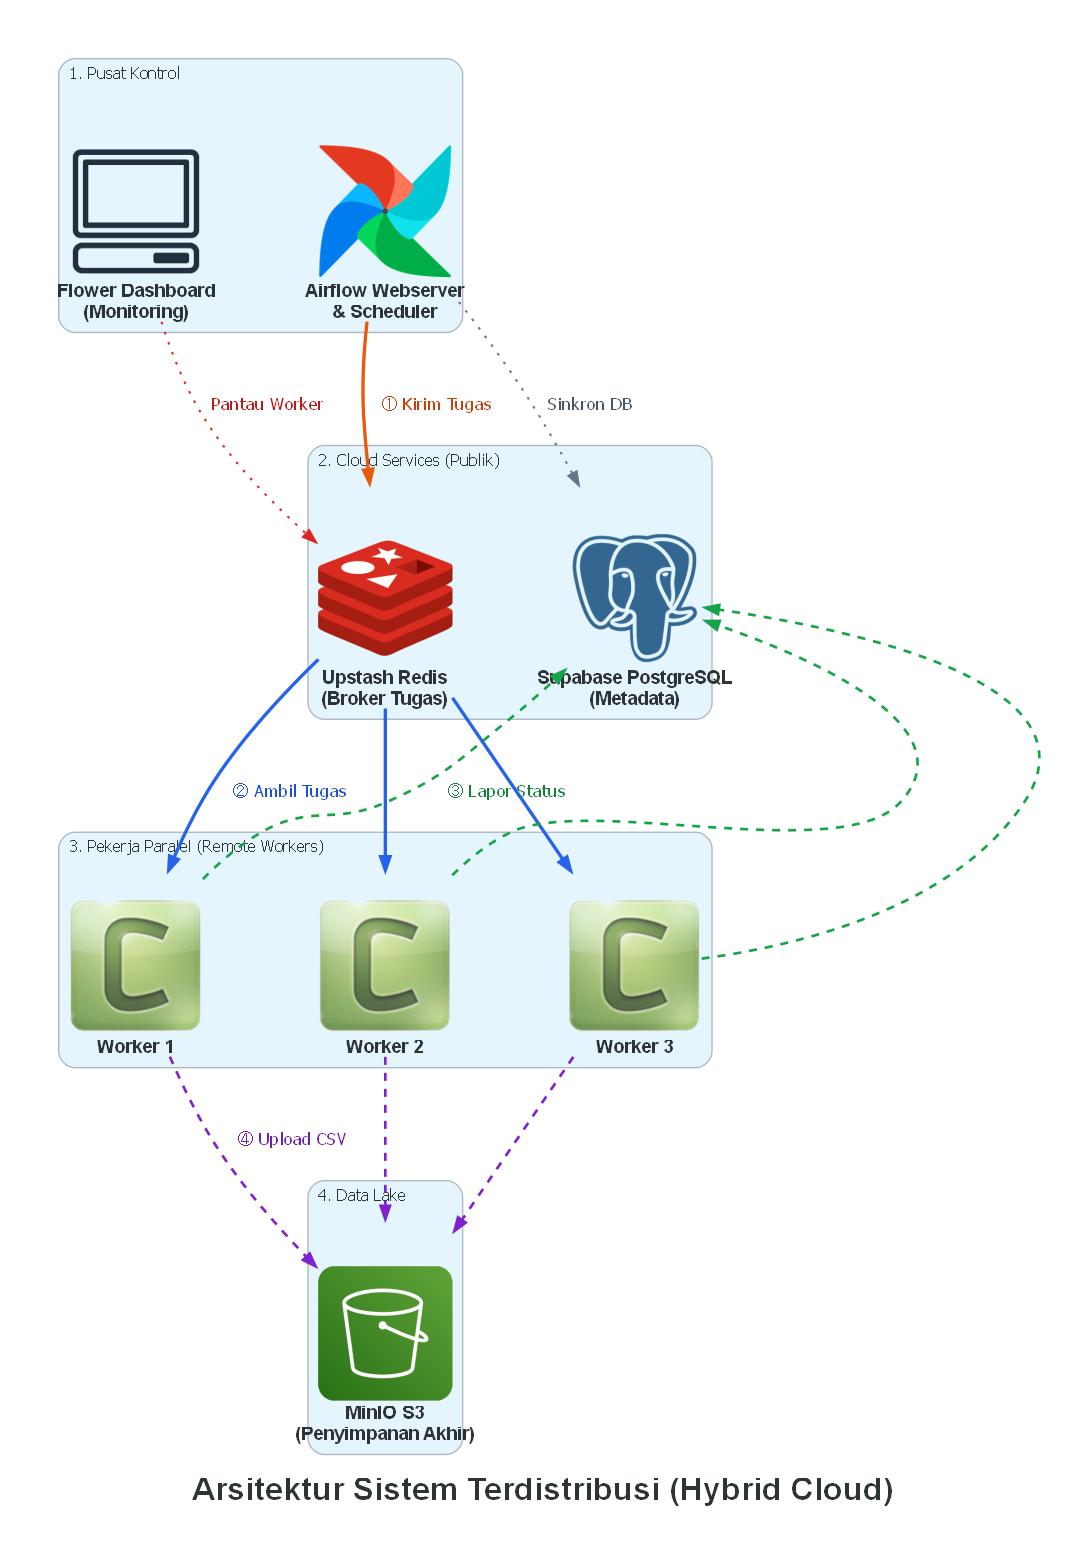
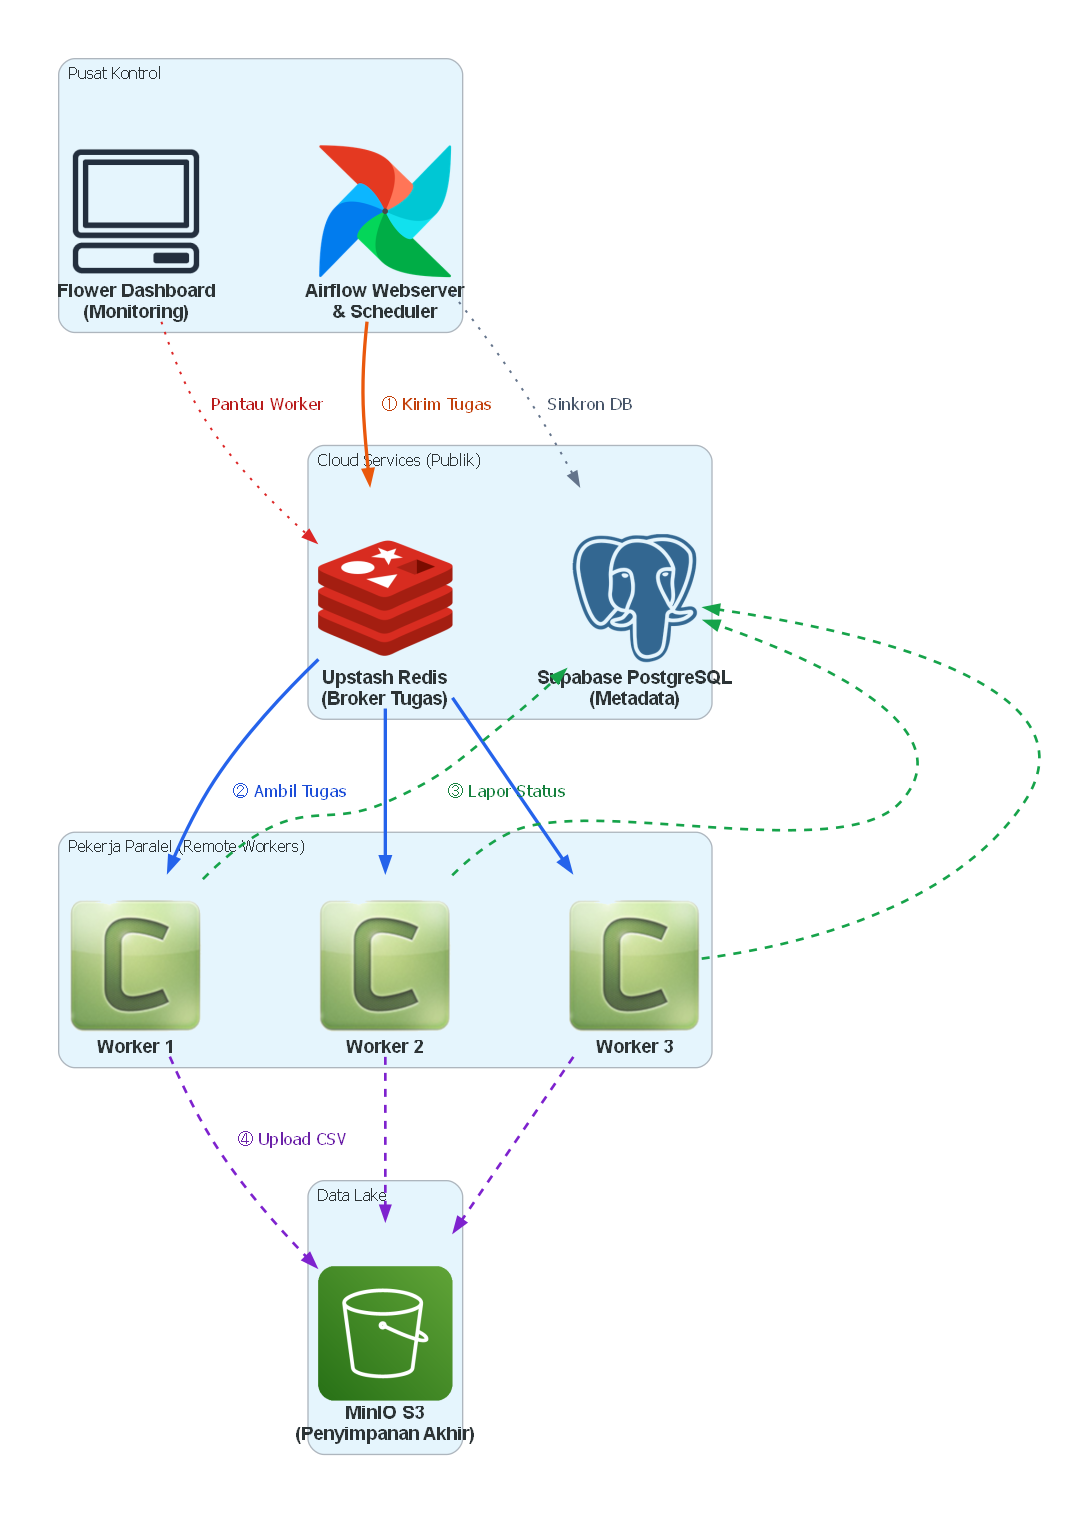
perubahan lagi

diff --git a/dashboard.py b/dashboard.py
@@ -1,0 +1,136 @@
+import streamlit as st
+import pandas as pd
+import plotly.express as px
+import plotly.graph_objects as go
+from pathlib import Path
+
+# Konfigurasi Halaman
+st.set_page_config(page_title="Dashboard Ekonomi Regional", page_icon="📊", layout="wide")
+
+# CSS Kustom untuk tampilan premium
+st.markdown("""
+<style>
+    .main {background-color: #f8f9fa;}
+    h1, h2, h3 {color: #1f2937; font-weight: 600;}
+    .stMetric {background-color: white; padding: 15px; border-radius: 10px; box-shadow: 0 4px 6px rgba(0,0,0,0.05); border-left: 5px solid #1f77b4;}
+</style>
+""", unsafe_allow_html=True)
+
+st.title("📊 Dashboard Kesenjangan Ekonomi Regional Indonesia")
+st.markdown("Visualisasi interaktif data *Gold Layer* bersumber dari Laporan Perekonomian Provinsi (LPP) Bank Indonesia (2015-2024).")
+
+@st.cache_data
+def load_data():
+    file_path = Path('data/gold_kesenjangan_regional_master.csv')
+    if not file_path.exists():
+        return pd.DataFrame()
+    
+    df = pd.read_csv(file_path)
+    
+    # Bersihkan / Rapikan Data (Data Cleaning)
+    if 'provinsi' in df.columns:
+        df['provinsi'] = df['provinsi'].str.strip().str.title()
+        
+    return df
+
+# Coba muat data
+df = load_data()
+
+if df.empty:
+    st.error("🚨 Data Gold Layer tidak ditemukan. Harap jalankan pipeline Airflow terlebih dahulu!")
+    st.stop()
+
+if 'provinsi' not in df.columns:
+    st.error("🚨 Kolom 'provinsi' tidak ditemukan di dataset Gold Layer. Pastikan data Silver telah dijoin dengan benar.")
+    st.stop()
+
+# --- Sidebar Filter ---
+st.sidebar.image("https://upload.wikimedia.org/wikipedia/commons/thumb/c/ce/Bank_Indonesia_logo.svg/1200px-Bank_Indonesia_logo.svg.png", width=150)
+st.sidebar.header("Penyaringan Data")
+
+tahun_tersedia = sorted(df['tahun'].dropna().unique().tolist())
+if not tahun_tersedia:
+    st.error("Data tahun tidak tersedia.")
+    st.stop()
+
+tahun_pilihan = st.sidebar.slider("Pilih Rentang Tahun", 
+                                  min_value=int(min(tahun_tersedia)), 
+                                  max_value=int(max(tahun_tersedia)), 
+                                  value=(int(min(tahun_tersedia)), int(max(tahun_tersedia))))
+
+provinsi_tersedia = sorted(df['provinsi'].dropna().unique().tolist())
+# Default pilihan: 5 provinsi terbesar di Jawa
+default_prov = [p for p in ['Dki Jakarta', 'Jawa Barat', 'Jawa Tengah', 'Jawa Timur', 'Banten'] if p in provinsi_tersedia]
+
+provinsi_pilihan = st.sidebar.multiselect("Pilih Provinsi (Bisa lebih dari 1)", 
+                                          options=provinsi_tersedia, 
+                                          default=default_prov if default_prov else provinsi_tersedia[:5])
+
+# Filter dataset
+df_filtered = df[(df['tahun'] >= tahun_pilihan[0]) & (df['tahun'] <= tahun_pilihan[1])]
+if provinsi_pilihan:
+    df_filtered = df_filtered[df_filtered['provinsi'].isin(provinsi_pilihan)]
+
+if df_filtered.empty:
+    st.warning("⚠ Tidak ada data untuk rentang tahun dan provinsi yang dipilih.")
+    st.stop()
+
+# --- Metrics Utama ---
+st.markdown("### 📈 Indikator Rata-Rata (Berdasarkan Filter)")
+col1, col2, col3, col4 = st.columns(4)
+with col1:
+    avg_ipm = df_filtered['ipm_provinsi'].mean() if 'ipm_provinsi' in df_filtered.columns else 0
+    st.metric("Rata-rata IPM", f"{avg_ipm:.2f}")
+with col2:
+    avg_miskin = df_filtered['persen_miskin'].mean() if 'persen_miskin' in df_filtered.columns else 0
+    st.metric("Rata-rata Penduduk Miskin", f"{avg_miskin:.2f}%")
+with col3:
+    avg_pdrb = df_filtered['pertumbuhan_ekonomi_persen'].mean() if 'pertumbuhan_ekonomi_persen' in df_filtered.columns else 0
+    st.metric("Pertumbuhan Ekonomi", f"{avg_pdrb:.2f}%")
+with col4:
+    avg_tpt = df_filtered['tpt'].mean() if 'tpt' in df_filtered.columns else 0
+    st.metric("Tingkat Pengangguran Terbuka", f"{avg_tpt:.2f}%")
+
+st.markdown("---")
+
+# --- Grafik 1: Tren Kemiskinan ---
+st.markdown("### 📉 Tren Kemiskinan Antar Provinsi")
+if 'persen_miskin' in df_filtered.columns:
+    tren_kemiskinan = df_filtered.groupby(['tahun', 'provinsi'])['persen_miskin'].mean().reset_index()
+    fig_trend = px.line(tren_kemiskinan, x='tahun', y='persen_miskin', color='provinsi', markers=True,
+                       title="Pergerakan Persentase Penduduk Miskin (2015-2024)",
+                       labels={'persen_miskin': 'Persentase Miskin (%)', 'tahun': 'Tahun', 'provinsi': 'Provinsi'},
+                       color_discrete_sequence=px.colors.qualitative.Set1)
+    fig_trend.update_layout(xaxis=dict(tickmode='linear', dtick=1))
+    st.plotly_chart(fig_trend, use_container_width=True)
+
+colA, colB = st.columns(2)
+
+with colA:
+    # --- Grafik 2: Bar Chart IPM ---
+    st.markdown("### 🏆 Peringkat Indeks Pembangunan Manusia (IPM)")
+    if 'ipm_provinsi' in df_filtered.columns:
+        df_ipm = df_filtered.groupby('provinsi')['ipm_provinsi'].mean().reset_index().sort_values(by='ipm_provinsi', ascending=False)
+        fig_bar = px.bar(df_ipm, x='ipm_provinsi', y='provinsi', orientation='h', color='ipm_provinsi',
+                         title="Rata-rata IPM Berdasarkan Filter Provinsi", 
+                         color_continuous_scale='Blues')
+        fig_bar.update_layout(yaxis={'categoryorder':'total ascending'})
+        st.plotly_chart(fig_bar, use_container_width=True)
+
+with colB:
+    # --- Grafik 3: Scatter Plot Korelasi ---
+    st.markdown("### 🔗 Korelasi PDRB vs Kemiskinan")
+    if 'pertumbuhan_ekonomi_persen' in df_filtered.columns and 'persen_miskin' in df_filtered.columns:
+        fig_scatter = px.scatter(df_filtered, x='pertumbuhan_ekonomi_persen', y='persen_miskin', color='provinsi',
+                                hover_data=['tahun', 'periode'], 
+                                title="Sebaran PDRB terhadap Kemiskinan",
+                                labels={'pertumbuhan_ekonomi_persen': 'Pertumbuhan Ekonomi (%)', 'persen_miskin': 'Kemiskinan (%)'})
+        
+        # Tambahkan garis tren OLS (Ordinary Least Squares)
+        fig_scatter.add_traces(
+            px.scatter(df_filtered, x='pertumbuhan_ekonomi_persen', y='persen_miskin', trendline="ols").data[1]
+        )
+        st.plotly_chart(fig_scatter, use_container_width=True)
+
+st.markdown("---")
+st.caption("Dikembangkan untuk Tugas Besar Analisis Big Data - Kelompok 4 (Razin & Hanna)")

diff --git a/generate_architecture.py b/generate_architecture.py
@@ -33,7 +33,6 @@ edge_attr = {
 }
 
 with Diagram(
-    name="Arsitektur Sistem Terdistribusi (Hybrid Cloud)",
     show=False,
     filename="gambar/arsitektur_terdistribusi",
     outformat="png",
@@ -42,20 +41,20 @@ with Diagram(
     edge_attr=edge_attr,
     direction="TB"  # Top-to-Bottom
 ):
-    with Cluster("1. Pusat Kontrol"):
+    with Cluster("Pusat Kontrol"):
         flower = Client("Flower Dashboard\n(Monitoring)")
         airflow = Airflow("Airflow Webserver\n& Scheduler")
 
-    with Cluster("2. Cloud Services (Publik)"):
+    with Cluster("Cloud Services (Publik)"):
         upstash = Redis("Upstash Redis\n(Broker Tugas)")
         supabase = Postgresql("Supabase PostgreSQL\n(Metadata)")
 
-    with Cluster("3. Pekerja Paralel (Remote Workers)"):
+    with Cluster("Pekerja Paralel (Remote Workers)"):
         worker1 = Celery("Worker 1")
         worker2 = Celery("Worker 2")
         worker3 = Celery("Worker 3")
 
-    with Cluster("4. Data Lake"):
+    with Cluster("Data Lake"):
         minio = S3("MinIO S3\n(Penyimpanan Akhir)")
 
     # ----------------------------------------------------

diff --git a/src/transform_gold_layer.py b/src/transform_gold_layer.py
@@ -85,8 +85,9 @@ def transform_to_gold_layer(silver_dir: str, gold_file: str):
         # IMPUTASI (Data Aggregation & Cleansing for Gold Layer):
         # Mengisi nilai kosong (NaN) menggunakan metode Forward Fill (ffill) 
         # lalu Backward Fill (bfill) dikelompokkan per provinsi.
-        # Ini adalah praktik standar di Gold Layer untuk data runtun waktu (time-series).
-        master_df = master_df.groupby('provinsi', group_keys=False).apply(lambda group: group.ffill().bfill())
+        master_df[other_cols] = master_df.groupby('provinsi')[other_cols].ffill()
+        master_df[other_cols] = master_df.groupby('provinsi')[other_cols].bfill()
+        
         master_df.to_csv(gold_file, index=False)
         logging.info(f"Sukses! Gold Layer berhasil dibuat di {gold_file} dengan total {len(master_df)} baris dan {len(master_df.columns)} kolom indikator.")
     else:
